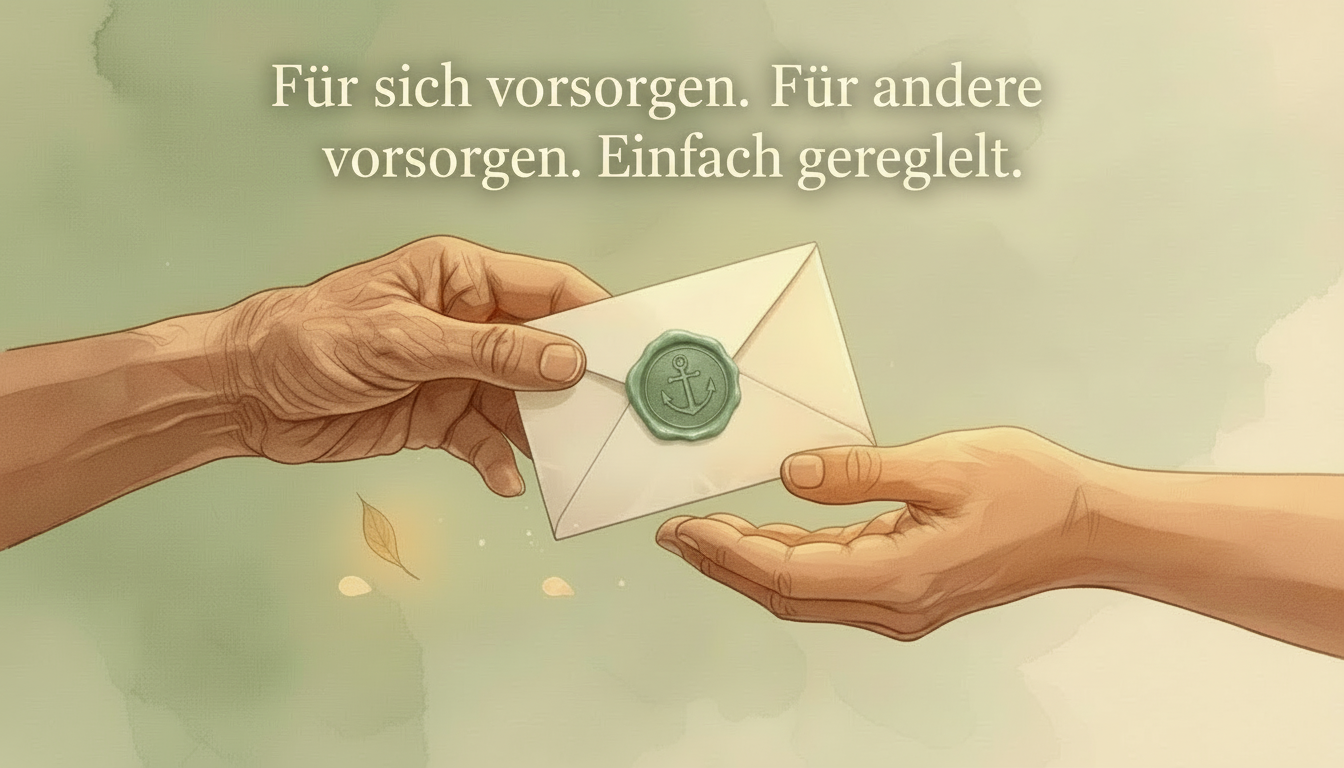
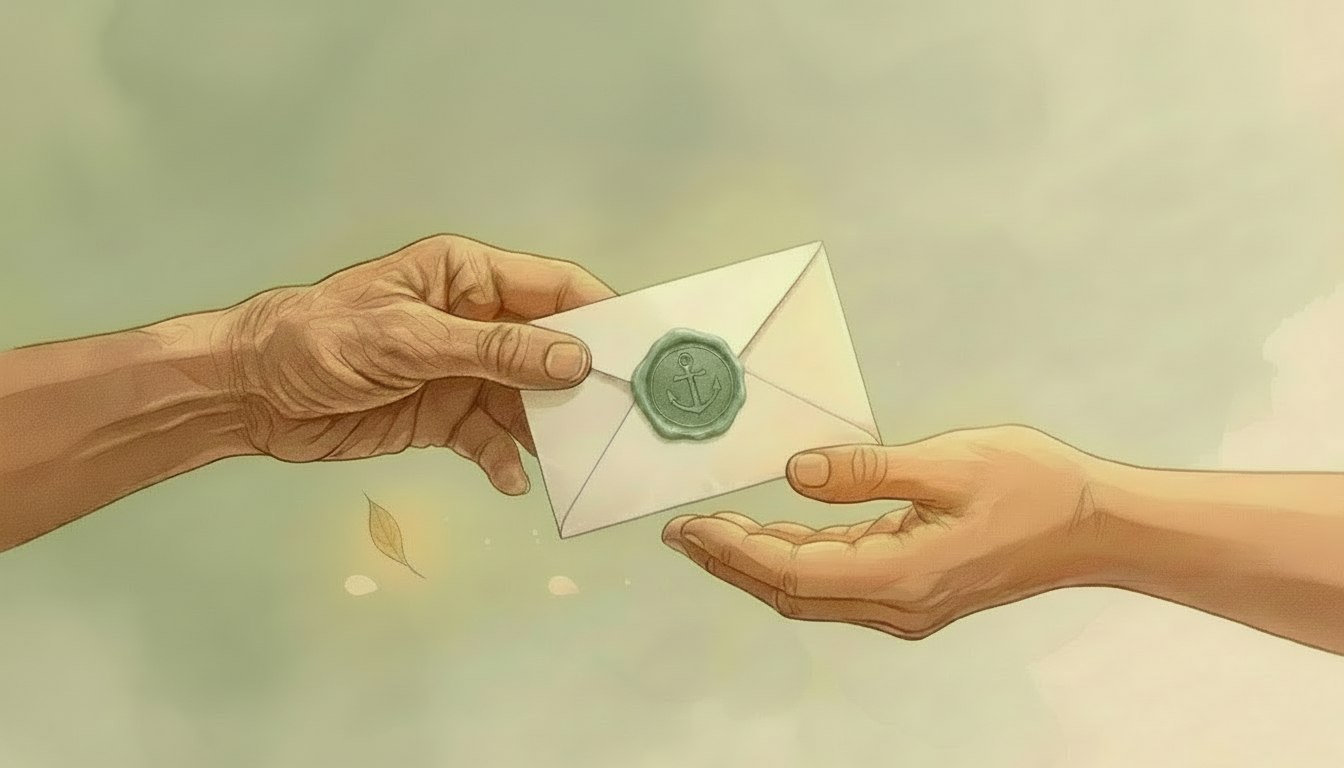
Changes

diff --git a/src/components/HeroSection.tsx b/src/components/HeroSection.tsx
@@ -54,6 +54,15 @@ const HeroSection = () => {
         />
         <div className="absolute inset-0 bg-gradient-to-r from-background via-background/95 to-background/70" />
         <div className="absolute inset-0 bg-gradient-to-t from-background via-transparent to-background/50" />
+        
+        {/* Slogan overlay on image */}
+        <div className="absolute top-8 left-1/2 -translate-x-1/2 text-center pointer-events-none hidden lg:block">
+          <p className="font-serif text-sm md:text-base text-cream/80 tracking-wide">
+            {language === 'de' 
+              ? 'Für sich vorsorgen. Für andere vorsorgen. Einfach geregelt.'
+              : 'Plan for yourself. Plan for others. Simply organized.'}
+          </p>
+        </div>
       </div>
 
       {/* Decorative elements */}
